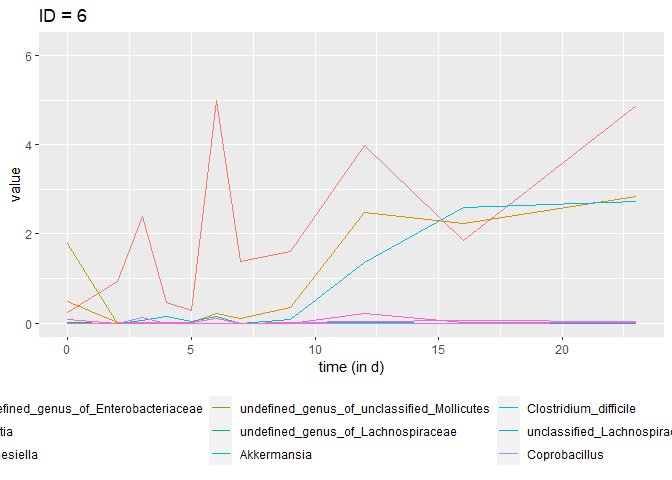
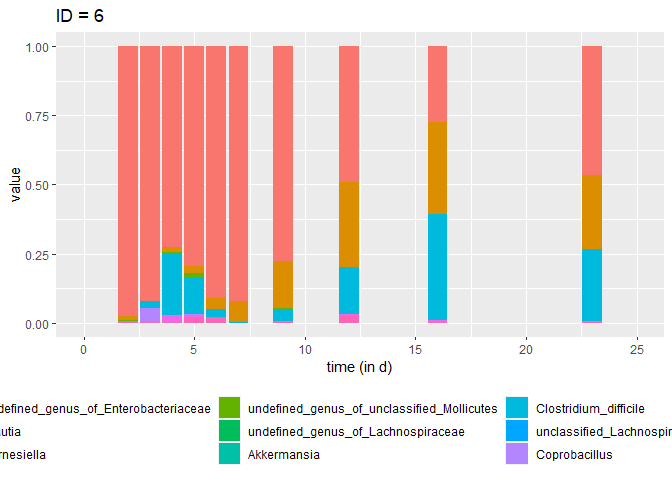
add metadata to Bucci, change plot design

diff --git a/explore/01b-timeseries-CLVpaper.md b/explore/01b-timeseries-CLVpaper.md
@@ -1,6 +1,6 @@
 Time series (Compositional Lotka Volterra)
 ================
-Compiled at 2023-05-08 12:59:24 UTC
+Compiled at 2023-05-25 07:32:38 UTC
 
 ``` r
 here::i_am(paste0(params$name, ".Rmd"), uuid = "fbad9ade-134a-4a83-a801-9900003f3395")
@@ -11,9 +11,8 @@ used in the Compositional Lotka Volterra paper.
 
 ``` r
 library("conflicted")
-library(dplyr)
+library(tidyverse)
 library(data.table)
-library(ggplot2)
 ```
 
 ``` r
@@ -31,43 +30,88 @@ path_source <- projthis::proj_path_source(params$name)
 
 ### Bucci
 
-#### Read the data
+#### Read data
 
 ``` r
 #### read the file
 dt_bucci_raw <- 
   fread("data/clv/bucci/data_cdiff/counts.txt", header = T)
 
-dt_bucci_long <-
-  melt(dt_bucci_raw,
-       id.vars = "Species", value.name = "Abundance", variable.name = "Time")
+knitr::kable(head(dt_bucci_raw))
 ```
 
-#### Plot the data
+| Species                 |    1 |    2 |    3 |   4 |    5 |    6 |    7 |    8 |    9 |   10 |   11 |   12 |   13 |   14 |   15 |  16 |   17 |   18 |   19 |   20 |   21 |   22 |   23 |   24 |   25 |   26 |   27 |   28 |  29 |  30 |   31 |   32 |   33 |   34 |   35 |   36 |   37 |   38 |   39 |   40 |   41 |   42 |   43 |   44 |   45 |   46 |   47 |   48 |   49 |  50 |   51 |  52 |   53 |   54 |  55 |   56 |  57 |   58 |   59 |   60 |   61 |   62 |   63 |   64 |   65 |   66 |   67 |   68 |   69 |   70 |   71 |   72 |   73 |   74 |   75 |   76 |   77 |  78 |   79 |   80 |  81 |  82 |   83 |   84 |   85 |   86 |   87 |   88 |   89 |   90 |  91 |   92 |  93 |  94 |   95 |  96 |  97 |   98 |   99 |  100 |  101 | 102 |  103 |  104 | 105 |  106 |  107 | 108 |  109 |  110 |  111 |  112 |  113 | 114 | 115 |  116 |  117 | 118 | 119 | 120 | 121 |  122 |  123 |  124 |  125 |  126 |  127 |  128 |  129 |  130 |
+|:------------------------|-----:|-----:|-----:|----:|-----:|-----:|-----:|-----:|-----:|-----:|-----:|-----:|-----:|-----:|-----:|----:|-----:|-----:|-----:|-----:|-----:|-----:|-----:|-----:|-----:|-----:|-----:|-----:|----:|----:|-----:|-----:|-----:|-----:|-----:|-----:|-----:|-----:|-----:|-----:|-----:|-----:|-----:|-----:|-----:|-----:|-----:|-----:|-----:|----:|-----:|----:|-----:|-----:|----:|-----:|----:|-----:|-----:|-----:|-----:|-----:|-----:|-----:|-----:|-----:|-----:|-----:|-----:|-----:|-----:|-----:|-----:|-----:|-----:|-----:|-----:|----:|-----:|-----:|----:|----:|-----:|-----:|-----:|-----:|-----:|-----:|-----:|-----:|----:|-----:|----:|----:|-----:|----:|----:|-----:|-----:|-----:|-----:|----:|-----:|-----:|----:|-----:|-----:|----:|-----:|-----:|-----:|-----:|-----:|----:|----:|-----:|-----:|----:|----:|----:|----:|-----:|-----:|-----:|-----:|-----:|-----:|-----:|-----:|-----:|
+| Collinsella-aerofaciens |    0 |    0 |    0 |   0 |    0 |    0 |    0 |    0 |    0 |    0 |    0 |    0 |    0 |    0 |    0 |   0 |    0 |    0 |    0 |    0 |    0 |    0 |    0 |    0 |    0 |    0 |    0 |    0 |   0 |   0 |    0 |    0 |    0 |    0 |    0 |    0 |    0 |    0 |    0 |    0 |    0 |    0 |    0 |    0 |    0 |    0 |    0 |    0 |    0 |   0 |    0 |   0 |    0 |    0 |   0 |    0 |   0 |    0 |    0 |    0 |    0 |    0 |    0 |    0 |    0 |    0 |    0 |    0 |    0 |    0 |    0 |    0 |    0 |    0 |    0 |    0 |    0 |   0 |    0 |    0 |   0 |   0 |    0 |    0 |    0 |    0 |    0 |    0 |    0 |    0 |   0 |    0 |   0 |   0 |    0 |   0 |   0 |    0 |    0 |    0 |    0 |   0 |    0 |    0 |   0 |    0 |    0 |   0 |    0 |    0 |    0 |    0 |    0 |   0 |   0 |    0 |    0 |   0 |   0 |   0 |   0 |    0 |    0 |    0 |    0 |    0 |    0 |    0 |    0 |    0 |
+| Clostridium-hiranonis   | 1483 | 1416 | 1038 |  84 |  101 |   72 |   46 |   55 |   89 |  102 |  115 |   56 |  102 |   57 |   31 |  38 |    0 |    0 |    0 |    0 |    0 |    0 |    0 |    0 |    0 |    0 |  248 |  168 | 120 |  54 |  214 |   74 |  129 |   79 |  121 |  244 |   99 |   36 |   92 |   84 |   33 |   39 |    1 |    0 |    1 |    1 |    0 |    0 |    0 |   0 |    0 |   0 | 1918 | 1536 | 592 |  269 | 108 |   56 |   45 |   57 |   24 |   36 |   21 |   15 |   11 |   15 |   12 |   16 |    1 |    0 |    0 |    0 |    0 |    1 |    1 |    0 |    1 |   0 | 1331 | 1209 | 578 | 304 |  116 |   43 |   57 |   95 |   88 |  115 |  187 |   90 |  65 |   60 |  31 |  39 |    0 |   0 |   0 |    0 |    0 |    0 |    0 |   0 |    0 |    0 | 108 |   13 |   90 | 112 |   76 |   70 |   20 |   33 |   42 |  48 |  40 |   46 |   42 |  41 |  40 |  54 |   0 |    0 |    0 |    0 |    0 |    0 |    0 |    0 |    0 |    0 |
+| Clostridium-difficile   |    0 |    0 |    0 |   0 |    0 |    1 |    0 |    0 |    0 |    0 |    0 |    0 |    0 |    3 |   20 | 265 | 2875 | 3204 | 3199 | 2484 | 2598 | 2453 | 1566 |  910 |  629 |  459 |    0 |    3 |   1 |   0 |    0 |    2 |    5 |    6 |    0 |    1 |    3 |    2 |    1 |    2 |   16 |  458 | 1660 | 1416 | 1961 | 2994 | 1778 | 1110 |  667 | 664 |  619 | 483 |    0 |    0 |   0 |    0 |   0 |    0 |    0 |    0 |    0 |    0 |    0 |    2 |    0 |    0 |   11 |  337 | 2403 | 2571 | 1055 | 1498 | 1028 | 1168 |  501 |  440 |  485 | 144 |    0 |    0 |   2 |   0 |    0 |    0 |    0 |    1 |    0 |    0 |    3 |    0 |   0 |    4 |  21 | 109 | 1129 | 435 | 322 | 1360 | 1888 | 1497 | 1048 | 675 |  393 |  393 |   0 |    0 |    0 |   0 |    0 |    0 |    1 |    0 |    0 |   0 |   0 |    0 |    0 |   0 |  20 | 103 | 399 | 1903 |  895 | 1720 | 1420 | 1089 |  882 |  816 |  537 |  503 |
+| Proteus-mirabilis       | 1330 | 1327 | 1092 | 726 | 1271 | 1602 | 1290 | 1375 |  670 | 1093 | 1345 | 1025 | 1490 | 1152 |  727 | 926 |  159 |   20 |   72 |  166 |  105 |  600 |  467 |  520 |  512 |  341 | 2605 | 1814 | 832 | 650 | 1931 | 3404 | 2999 | 1256 | 1409 | 1191 | 1207 |  606 |  860 |  999 |  775 | 1156 |  168 | 1129 |  587 |  173 |  862 |  801 |  480 | 435 |  472 | 278 | 1472 |  827 | 738 | 1082 | 757 | 1010 | 1056 |  872 |  720 |  573 |  684 |  909 |  750 | 1096 | 1064 | 2002 |  619 |   56 |  108 |   62 |  143 |  435 |  725 |  465 |  679 | 254 |  880 |  606 | 413 | 736 | 1247 | 1065 | 1043 |  887 |  843 |  778 |  937 |  598 | 651 |  715 | 394 | 661 |  231 | 109 |  65 |  154 |  235 |  414 |  601 | 440 |  548 |  407 | 364 | 2023 | 1396 | 811 | 1067 | 1415 | 1166 |  992 |  523 | 430 | 477 |  722 |  616 | 535 | 442 | 930 |  40 |  110 |  403 |  425 |  618 | 1118 | 1120 |  657 |  449 |  509 |
+| Clostridium-scindens    | 1065 |  460 |  199 |  98 |  209 |  343 |  195 |  234 |  120 |  255 |  194 |  120 |  154 |  197 |  144 | 493 |   48 |   43 |   22 |   54 |  154 |  329 |  113 |   79 |   75 |   98 | 1266 | 1009 | 324 |  90 |  210 |  746 |  544 |  166 |  151 |  363 |  408 |  150 |  279 |  256 |  106 |  943 |   88 |  120 |  125 |  102 |  132 |  153 |  130 | 118 |  131 |  63 |  236 |  177 |  94 |   60 | 103 |  182 |  327 |  183 |   87 |  262 |  176 |  153 |  154 |  216 |  254 |  255 |   88 |    9 |   87 |  245 |  124 |  189 |  115 |  169 |   99 |  46 |  223 |  220 |  50 | 123 |  185 |  160 |  132 |  119 |   78 |  122 |  224 |  140 | 160 |  166 | 116 | 330 |   20 |  75 |  67 |   91 |   35 |  104 |   85 |  63 |   80 |  125 |  91 |   37 |  291 |  54 |   93 |  265 |  208 |  208 |  121 |  80 |  68 |  134 |   81 |  72 |  90 | 153 |  23 |   73 |   53 |   68 |   79 |   92 |   88 |  122 |   68 |   72 |
+| Ruminococcus-obeum      |   30 |  408 | 1405 | 312 |  754 | 1322 | 1301 | 1931 | 2064 | 3734 | 2338 | 1555 | 1835 | 2094 | 1171 | 210 |  370 |    2 | 4888 | 8381 | 2435 | 3235 | 1791 | 1828 | 2743 | 3213 |    3 |    8 | 834 | 465 |  828 | 2992 | 3278 | 1913 | 2837 | 3848 | 3614 | 2183 | 2326 | 3558 | 1240 |  378 | 3685 | 3719 | 5261 | 2721 |  859 | 1208 | 1085 | 754 | 1374 | 854 |   13 |  137 | 875 |  272 | 322 |  971 | 1269 | 1034 | 2218 | 1902 | 1534 | 1247 | 1062 | 1319 | 1260 |  260 |   28 |    2 | 2340 | 2703 | 1452 | 2893 | 1228 | 1160 | 1316 | 753 |   23 |  194 |  85 | 213 |  497 |  982 | 1578 | 1410 | 1636 | 1724 | 2220 | 1379 | 996 | 1379 | 890 | 433 |   77 | 363 | 947 | 1143 |  829 | 1046 | 1137 | 602 | 1414 | 1542 |  49 |    3 |   73 | 560 |  717 |  984 |  575 | 1125 | 1425 | 993 | 820 | 1385 | 1105 | 736 | 732 | 402 | 203 |  114 | 2056 | 1655 | 1488 | 1636 | 1267 | 1012 | 1102 | 1276 |
 
 ``` r
-ggplot(dt_bucci_long) +
-  geom_line(aes(as.numeric(Time), Abundance, col = Species)) +
-  theme(legend.position = "none") +
-  scale_y_log10()
+# change format of count data
+dt_bucci_long <-
+  melt(dt_bucci_raw,
+       id.vars = "Species", value.name = "Count", variable.name = "sampleID") %>% 
+  .[, sampleID := as.numeric(as.character(sampleID))]
+
+# read metadata file
+dt_bucci_meta <-
+  fread("data/clv/bucci/data_cdiff/metadata.txt", header = T)
+
+# merge metadata to count data
+dt_bucci_long <-
+  merge(dt_bucci_long, dt_bucci_meta, by = "sampleID")
+
+# show first rows of table
+knitr::kable(head(dt_bucci_long))
 ```
 
-    ## Warning: Transformation introduced infinite values in continuous y-axis
+| sampleID | Species                 | Count | isIncluded | subjectID | measurementid | perturbid | exptblock | intv |
+|---------:|:------------------------|------:|-----------:|----------:|--------------:|----------:|----------:|-----:|
+|        1 | Collinsella-aerofaciens |     0 |          1 |         1 |          0.75 |         0 |         1 |    0 |
+|        1 | Clostridium-hiranonis   |  1483 |          1 |         1 |          0.75 |         0 |         1 |    0 |
+|        1 | Clostridium-difficile   |     0 |          1 |         1 |          0.75 |         0 |         1 |    0 |
+|        1 | Proteus-mirabilis       |  1330 |          1 |         1 |          0.75 |         0 |         1 |    0 |
+|        1 | Clostridium-scindens    |  1065 |          1 |         1 |          0.75 |         0 |         1 |    0 |
+|        1 | Ruminococcus-obeum      |    30 |          1 |         1 |          0.75 |         0 |         1 |    0 |
+
+Info about time points: When was the data collected?
+
+Fecal pellets were collected at days 0.75, 1, 2, 3, 4, 6, 8, 10, 14, 17,
+21, 24, and 28 of the initial colonization and at days 0.75, 1, 2, 3, 4,
+6, 8, 10, 14, 17, 21, 24, and 28 post-infection with C. difficile.
+
+#### Plot data
+
+``` r
+ggplot(dt_bucci_long[subjectID == 1], aes(measurementid, Count)) +
+    geom_bar(aes(fill = Species), stat = "identity") +
+    theme(legend.position = "none") +
+    labs(x = "Time",
+         title = paste("Subject", 1))
+```
 
 ![](01b-timeseries-CLVpaper_files/figure-gfm/unnamed-chunk-2-1.png)<!-- -->
 
 ``` r
-ggplot(dt_bucci_long) +
-  geom_bar(aes(as.numeric(Time), Abundance, fill = Species), stat = "identity") +
-  theme(legend.position = "none") +
-  labs(x = "Time")
+for(i in 1:5){
+  pl <- ggplot(dt_bucci_long[subjectID == i], aes(as.factor(measurementid), Count)) +
+    geom_bar(aes(fill = Species), stat = "identity", position = "fill") +
+    theme(legend.position = "none") +
+    labs(x = "Time",
+         title = paste("Subject", i))
+  
+  print(pl)
+}
 ```
 
-![](01b-timeseries-CLVpaper_files/figure-gfm/unnamed-chunk-2-2.png)<!-- -->
+![](01b-timeseries-CLVpaper_files/figure-gfm/unnamed-chunk-2-2.png)<!-- -->![](01b-timeseries-CLVpaper_files/figure-gfm/unnamed-chunk-2-3.png)<!-- -->![](01b-timeseries-CLVpaper_files/figure-gfm/unnamed-chunk-2-4.png)<!-- -->![](01b-timeseries-CLVpaper_files/figure-gfm/unnamed-chunk-2-5.png)<!-- -->![](01b-timeseries-CLVpaper_files/figure-gfm/unnamed-chunk-2-6.png)<!-- -->
 
 ### Stein
 
-#### Read the data
+#### Read data
 
 ``` r
 #### read the file
@@ -110,30 +154,59 @@ dt_stein_long$Genus %>% unique()
     ## [11] Other                                     
     ## 11 Levels: undefined_genus_of_Enterobacteriaceae Blautia ... Other
 
-#### Plot the data
+#### Plot data
 
 ``` r
 for (i in 1:9) {
   plot_tmp <-
     ggplot(dt_stein_long[ID == i]) +
-      geom_line(aes(`time (in d)`, value, col = Genus)) +
+      # geom_line(aes(`time (in d)`, value, col = Genus)) +
+      geom_bar(aes(`time (in d)`, value, fill = Genus), 
+               stat = "identity", position = "fill") +
       theme(legend.position = "bottom") +
-      ylim(0, 6.2) +
+      # ylim(0, 6.2) +
+      xlim(0,25) +
     labs(title = paste("ID =", i))
   
   print(plot_tmp)
 }
 ```
 
-![](01b-timeseries-CLVpaper_files/figure-gfm/unnamed-chunk-5-1.png)<!-- -->![](01b-timeseries-CLVpaper_files/figure-gfm/unnamed-chunk-5-2.png)<!-- -->![](01b-timeseries-CLVpaper_files/figure-gfm/unnamed-chunk-5-3.png)<!-- -->![](01b-timeseries-CLVpaper_files/figure-gfm/unnamed-chunk-5-4.png)<!-- -->![](01b-timeseries-CLVpaper_files/figure-gfm/unnamed-chunk-5-5.png)<!-- -->![](01b-timeseries-CLVpaper_files/figure-gfm/unnamed-chunk-5-6.png)<!-- -->![](01b-timeseries-CLVpaper_files/figure-gfm/unnamed-chunk-5-7.png)<!-- -->![](01b-timeseries-CLVpaper_files/figure-gfm/unnamed-chunk-5-8.png)<!-- -->![](01b-timeseries-CLVpaper_files/figure-gfm/unnamed-chunk-5-9.png)<!-- -->
+    ## Warning: Removed 11 rows containing missing values (`geom_bar()`).
 
-``` r
-ggplot(dt_stein_long) +
-  geom_bar(aes(`time (in d)`, value, fill = Genus), stat = "identity") +
-  theme(legend.position = "none")
-```
+![](01b-timeseries-CLVpaper_files/figure-gfm/unnamed-chunk-5-1.png)<!-- -->
 
-![](01b-timeseries-CLVpaper_files/figure-gfm/unnamed-chunk-5-10.png)<!-- -->
+    ## Warning: Removed 11 rows containing missing values (`geom_bar()`).
+
+![](01b-timeseries-CLVpaper_files/figure-gfm/unnamed-chunk-5-2.png)<!-- -->
+
+    ## Warning: Removed 11 rows containing missing values (`geom_bar()`).
+
+![](01b-timeseries-CLVpaper_files/figure-gfm/unnamed-chunk-5-3.png)<!-- -->
+
+    ## Warning: Removed 11 rows containing missing values (`geom_bar()`).
+
+![](01b-timeseries-CLVpaper_files/figure-gfm/unnamed-chunk-5-4.png)<!-- -->
+
+    ## Warning: Removed 11 rows containing missing values (`geom_bar()`).
+
+![](01b-timeseries-CLVpaper_files/figure-gfm/unnamed-chunk-5-5.png)<!-- -->
+
+    ## Warning: Removed 11 rows containing missing values (`geom_bar()`).
+
+![](01b-timeseries-CLVpaper_files/figure-gfm/unnamed-chunk-5-6.png)<!-- -->
+
+    ## Warning: Removed 11 rows containing missing values (`geom_bar()`).
+
+![](01b-timeseries-CLVpaper_files/figure-gfm/unnamed-chunk-5-7.png)<!-- -->
+
+    ## Warning: Removed 11 rows containing missing values (`geom_bar()`).
+
+![](01b-timeseries-CLVpaper_files/figure-gfm/unnamed-chunk-5-8.png)<!-- -->
+
+    ## Warning: Removed 11 rows containing missing values (`geom_bar()`).
+
+![](01b-timeseries-CLVpaper_files/figure-gfm/unnamed-chunk-5-9.png)<!-- -->
 
 ## Files written
 
